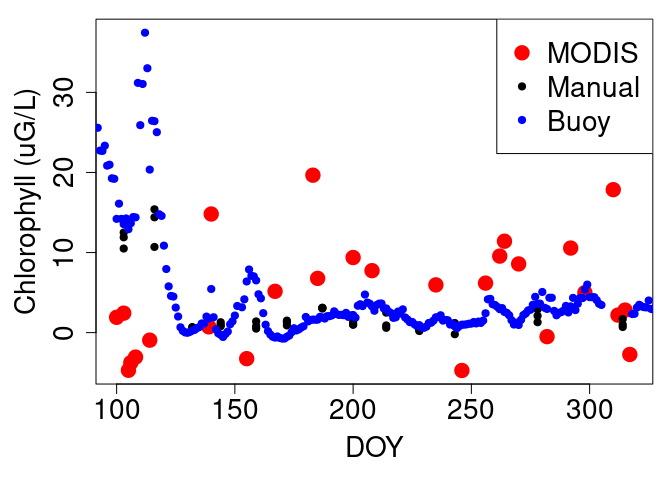
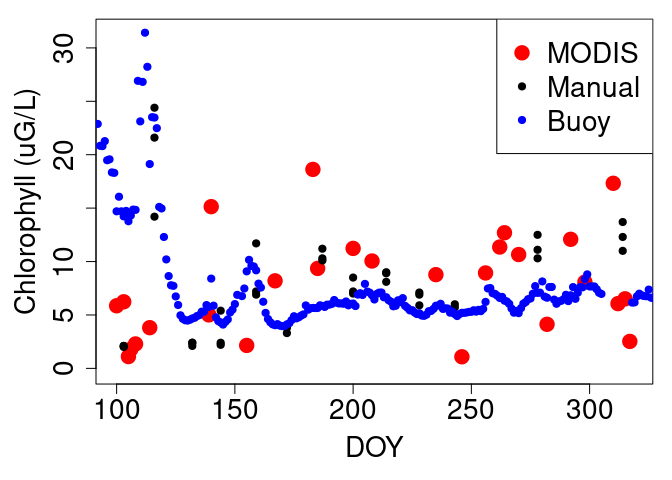
fix manual chl plotting

diff --git a/README.md b/README.md
@@ -11,7 +11,6 @@ remote sensing products to study water quality.
 
 ``` r
 # remotes::install_github("EDIorg/EDIutils", ref = "cran") # run this once to install EDIutils package
-
 library(EDIutils)
 library(dplyr)
 library(tidyr)
@@ -21,7 +20,7 @@ library(tidyr)
 
 ``` r
 # define which manual chlorophyll measurement to use
-manual_chl_column = "mono_chl_spec"
+manual_chl_column = "correct_chl_fluor"
 # define which lake to analyze
 lake = "ME"
 # define depths of manual chl samples to use
@@ -185,7 +184,7 @@ plot(
   cex.lab = 1.75, cex.axis = 1.75, cex.main = 1.5, cex.sub = 1.5, 
   ylim = Ylim
   )
-points(manChl2016$DOY, manChl2016$mono_chl_spec, col = "black", pch = 19)
+points(manChl2016$DOY, pull(manChl2016[, manual_chl_column]), col = "black", pch = 19)
 points(buoyChl2016$DOY, buoyChl2016$reverse_transform, col = "blue", pch = 19)
 legend(
   "topright", c("MODIS", "Manual", "Buoy"), 
